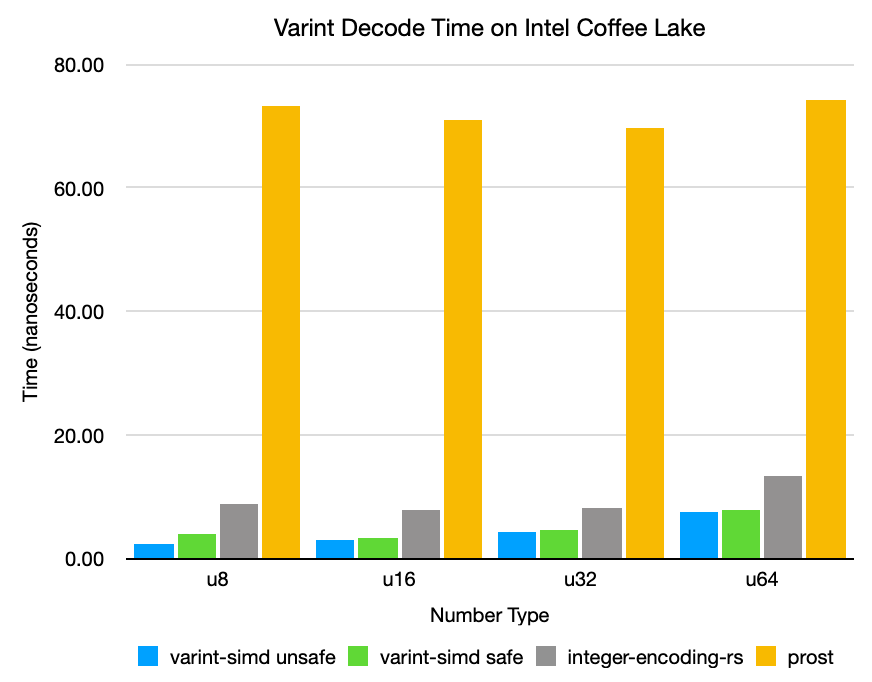
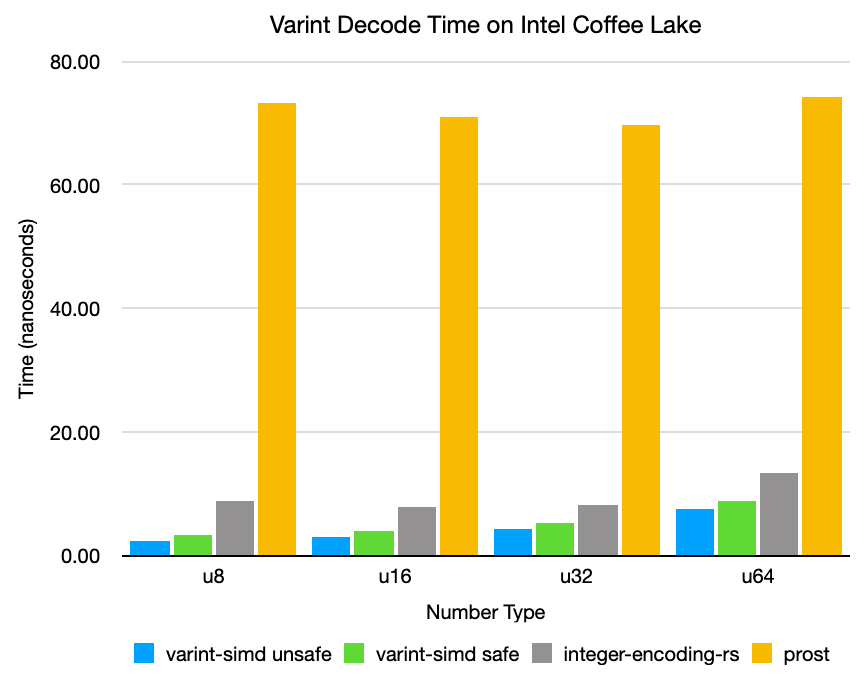
Update benchmark numbers

diff --git a/README.md b/README.md
@@ -13,10 +13,10 @@ Very fast varint encoder and decoder written in Rust.
 #### Decode
 |   | varint-simd unsafe | varint-simd safe | integer-encoding-rs | prost |
 | -- | -- | -- | -- | -- |
-| `u8`  | **2.27 ns** | **3.79 ns** | 8.68 ns | 73.3 ns |
-| `u16` | **3.04 ns** | **3.36 ns** | 7.63 ns | 71.0 ns |
-| `u32` | **4.30 ns** | **4.69 ns** | 8.26 ns | 69.7 ns |
-| `u64` | **7.50 ns** | **7.81 ns** | 13.3 ns | 74.1 ns |
+| `u8`  | **2.27 ns** | **3.19 ns** | 8.68 ns | 73.3 ns |
+| `u16` | **3.04 ns** | **3.88 ns** | 7.63 ns | 71.0 ns |
+| `u32` | **4.30 ns** | **5.24 ns** | 8.26 ns | 69.7 ns |
+| `u64` | **7.50 ns** | **8.68 ns** | 13.3 ns | 74.1 ns |
 
 #### Encode
 |   | varint-simd | integer-encoding-rs | prost |
@@ -30,10 +30,10 @@ Very fast varint encoder and decoder written in Rust.
 #### Decode
 |   | varint-simd unsafe | varint-simd safe | integer-encoding-rs | prost |
 | -- | -- | -- | -- | -- |
-| `u8`  | **2.75 ns** | **3.79 ns** | 8.00 ns | 38.2 ns |
-| `u16` | **3.34 ns** | **3.90 ns** | 7.54 ns | 35.6 ns |
-| `u32` | **4.82 ns** | **4.97 ns** | 7.88 ns | 34.9 ns |
-| `u64` | **6.94 ns** | **7.29 ns** | 13.4 ns | 40.0 ns |
+| `u8`  | **2.75 ns** | **3.48 ns** | 8.00 ns | 38.2 ns |
+| `u16` | **3.34 ns** | **3.95 ns** | 7.54 ns | 35.6 ns |
+| `u32` | **4.82 ns** | **5.10 ns** | 7.88 ns | 34.9 ns |
+| `u64` | **6.94 ns** | **7.91 ns** | 13.4 ns | 40.0 ns |
 
 #### Encode
 |   | varint-simd | integer-encoding-rs | prost |
